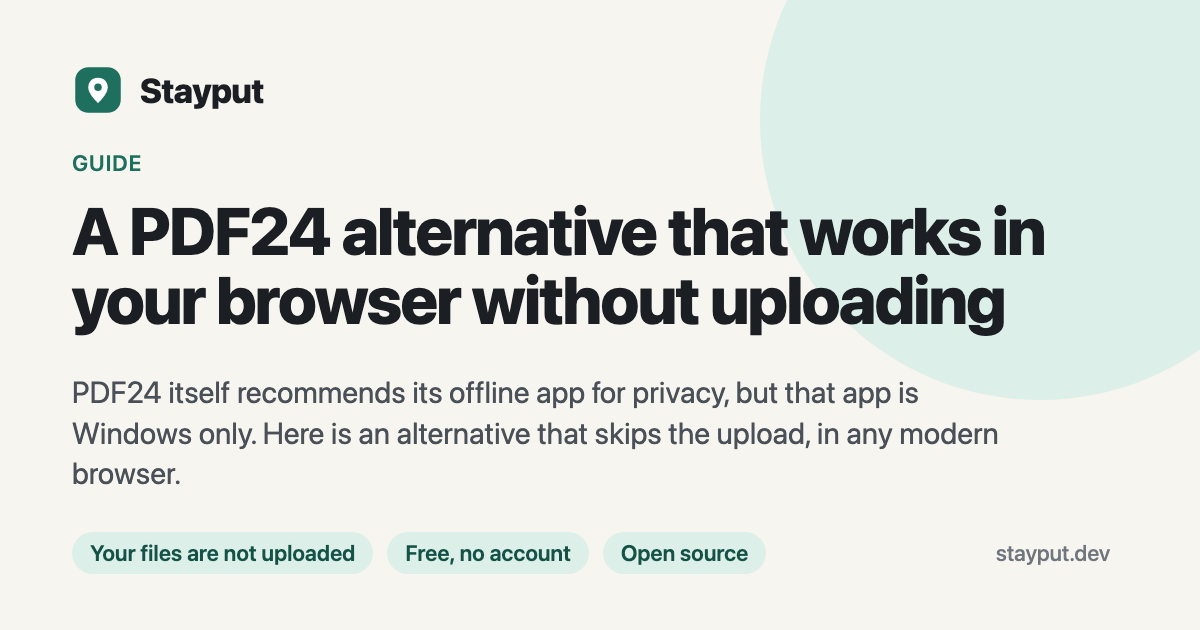
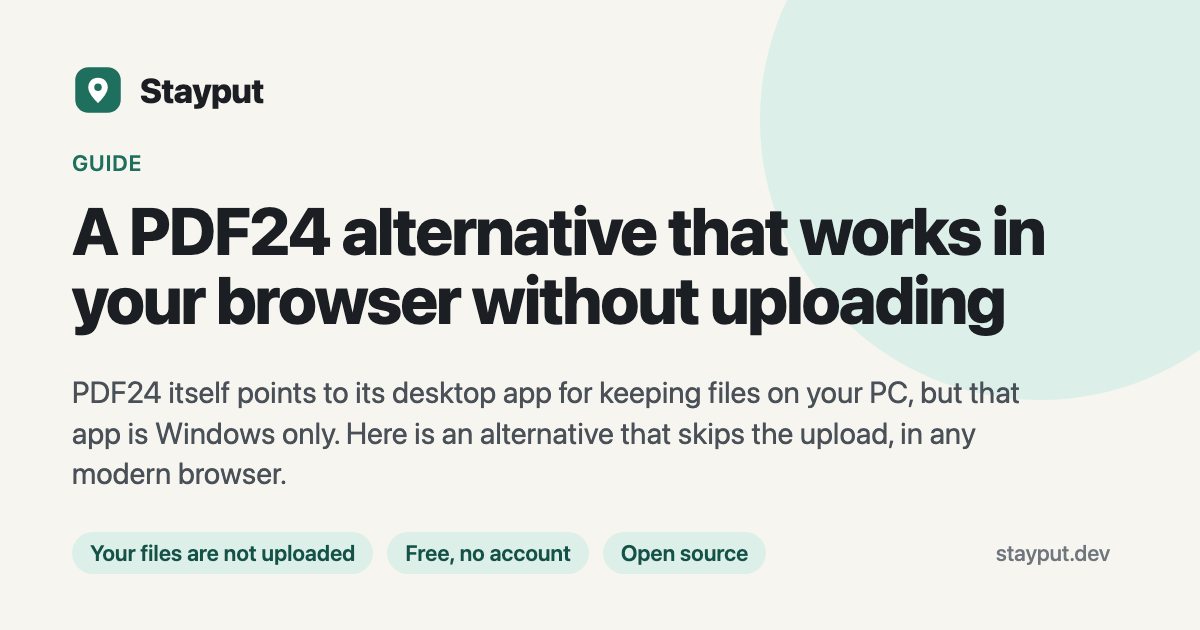
Soften undated competitor figures in guide descriptions and deks, date safe-guide FAQ answers

Changed region(s): [[0.0617, 0.6032, 0.8633, 0.7841]]

diff --git a/src/data/guides.ts b/src/data/guides.ts
@@ -723,7 +723,7 @@ export const guides: Guide[] = [
   {
     slug: 'is-cloudconvert-safe',
     title: 'Is CloudConvert Safe? What Happens to Your Files, and When to Keep Them Local',
-    description: 'CloudConvert is a reputable German service with ISO 27001 certification and 24-hour deletion. What that covers, and how to convert without uploading.',
+    description: 'As of October 2026, CloudConvert says it holds ISO 27001 certification and deletes files within 24 hours. What that covers, and how to convert without uploading.',
     heading: 'Is CloudConvert safe?',
     dek: 'For most files, yes: it is an established, certified service. The real question is whether a given file should leave your computer at all.',
     keywords: ['is cloudconvert safe', 'cloudconvert safe', 'cloudconvert privacy', 'is cloudconvert legit', 'cloudconvert security', 'cloudconvert alternative no upload'],
@@ -772,7 +772,7 @@ export const guides: Guide[] = [
     ],
     faq: [
       { q: 'Is CloudConvert legit?', a: 'Yes. It is run by Lunaweb GmbH in Munich, Germany, has been operating for years, publishes its security practices and holds ISO 27001 certification.' },
-      { q: 'How long does CloudConvert keep my files?', a: 'According to its privacy policy, until you delete them with the × button, and automatically after 24 hours at the latest.' },
+      { q: 'How long does CloudConvert keep my files?', a: 'As of October 2026, according to its privacy policy, until you delete them with the × button, and automatically after 24 hours at the latest.' },
       { q: 'Can CloudConvert staff see my files?', a: 'Its security page says conversions run in isolated containers and that staff cannot technically access your files; for support cases it asks you to send files manually.' },
       { q: 'Is there a way to convert without uploading anything?', a: 'Yes, for common formats. Tools that run in the browser, such as Stayput’s image, audio and video converters, process the file on your device. You can confirm it with airplane mode: they keep working offline after one visit.' },
     ],
@@ -780,7 +780,7 @@ export const guides: Guide[] = [
   {
     slug: 'is-freeconvert-safe',
     title: 'Is FreeConvert Safe? Its File Policy Explained, and a No-Upload Option',
-    description: 'FreeConvert stores uploads on AWS in Ireland and deletes them after 8 hours. What that means for private files, and how to convert common formats without uploading.',
+    description: 'As of October 2026, FreeConvert says it stores uploads on AWS in Ireland and deletes them after 8 hours. What that means for private files, and how to convert common formats without uploading.',
     heading: 'Is FreeConvert safe?',
     dek: 'FreeConvert is a legitimate service with a clear deletion policy. Whether it is safe for a particular file depends on whether that file should be uploaded anywhere.',
     keywords: ['is freeconvert safe', 'freeconvert safe', 'is freeconvert.com safe', 'freeconvert privacy', 'is freeconvert legit', 'freeconvert virus'],
@@ -828,7 +828,7 @@ export const guides: Guide[] = [
     ],
     faq: [
       { q: 'Is FreeConvert legit?', a: 'Yes. Its terms name TransMedia Inc. of Toronto, Canada as the operator, and its privacy policy gives a fixed deletion period.' },
-      { q: 'How long does FreeConvert keep my files?', a: 'Its privacy policy says uploaded files are deleted automatically after 8 hours, and you can delete them manually before then.' },
+      { q: 'How long does FreeConvert keep my files?', a: 'As of October 2026, its privacy policy says uploaded files are deleted automatically after 8 hours, and you can delete them manually before then.' },
       { q: 'Where are FreeConvert files stored?', a: 'On Amazon Web Services in Ireland, according to its privacy policy.' },
       { q: 'Can I convert a file without uploading it?', a: 'Yes, for common image, audio and video formats. Browser-based tools like Stayput process the file on your own device; after one visit, switch on airplane mode and they still work.' },
     ],
@@ -836,7 +836,7 @@ export const guides: Guide[] = [
   {
     slug: 'is-ilovepdf-safe',
     title: 'Is iLovePDF Safe? How It Handles Your PDFs, and How to Keep Them Local',
-    description: 'iLovePDF is a Europe-based, ISO 27001 certified PDF service that deletes files within two hours. What that covers, and how to edit PDFs without uploading.',
+    description: 'As of October 2026, iLovePDF says it is ISO 27001 certified and deletes files within two hours. What that covers, and how to edit PDFs without uploading.',
     heading: 'Is iLovePDF safe?',
     dek: 'iLovePDF is an established European service with good published practices. For confidential PDFs, the safer question is whether they need to be uploaded at all.',
     keywords: ['is ilovepdf safe', 'ilovepdf safe', 'is ilovepdf legit', 'ilovepdf privacy', 'ilovepdf security', 'ilovepdf alternative'],
@@ -884,7 +884,7 @@ export const guides: Guide[] = [
     ],
     faq: [
       { q: 'Is iLovePDF legit?', a: 'Yes. It is an established Europe-based service with ISO/IEC 27001 certification and GDPR compliance, according to its security page.' },
-      { q: 'How long does iLovePDF keep my files?', a: 'Its security policy says processed files are deleted automatically within two hours. Documents signed with its e-signature service are kept for up to five years.' },
+      { q: 'How long does iLovePDF keep my files?', a: 'As of October 2026, its security page says processed files are deleted automatically within two hours. Documents signed with its e-signature service are kept for up to five years.' },
       { q: 'Does iLovePDF have an offline version?', a: 'Yes. Per its desktop page, iLovePDF Desktop for Windows and Mac processes files offline. Browser tools like Stayput’s are another option that needs no installation.' },
       { q: 'How can I merge PDFs without uploading them?', a: 'Use a tool that runs in the browser. Stayput’s Merge PDF joins files inside the page; after one visit, it keeps working with the network switched off.' },
     ],
@@ -892,9 +892,9 @@ export const guides: Guide[] = [
   {
     slug: 'is-smallpdf-safe',
     title: 'Is Smallpdf Safe? File Retention, Storage and a No-Upload Option',
-    description: 'Smallpdf says it deletes files within an hour for signed-in users, unless they are saved to file storage. What that means for private files, and how to edit PDFs without uploading.',
+    description: 'As of October 2026, Smallpdf says it deletes files within an hour for signed-in users, unless they are saved to file storage. What that means for private files, and how to edit PDFs without uploading.',
     heading: 'Is Smallpdf safe?',
-    dek: 'Smallpdf is a reputable Swiss company with ISO 27001 certification. What changes the answer for you is which of its storage rules applies to your file.',
+    dek: 'Smallpdf is a reputable Swiss company with published retention rules. What changes the answer for you is which of its storage rules applies to your file.',
     keywords: ['is smallpdf safe', 'smallpdf safe', 'is smallpdf legit', 'smallpdf privacy', 'smallpdf security', 'smallpdf alternative'],
     updated: '2026-10-08',
     tools: ['compress-pdf', 'merge-pdf', 'pdf-to-word', 'sign-pdf'],
@@ -947,7 +947,7 @@ export const guides: Guide[] = [
   {
     slug: 'is-ezgif-safe',
     title: 'Is Ezgif Safe? What Happens to Your Uploads, and a No-Upload GIF Maker',
-    description: 'Ezgif is a long-running GIF editor that deletes uploads an hour after last use. What its policy covers, and how to make GIFs without uploading.',
+    description: 'As of October 2026, ezgif says it deletes uploads an hour after last use. What its policy covers, and how to make GIFs without uploading.',
     heading: 'Is ezgif safe?',
     dek: 'Ezgif is a legitimate, popular GIF tool with a short deletion window. The file you are about to drop in decides whether uploading it is fine.',
     keywords: ['is ezgif safe', 'ezgif safe', 'is ezgif legit', 'is ezgif.com safe', 'ezgif privacy', 'ezgif virus', 'ezgif alternative'],
@@ -1058,7 +1058,7 @@ export const guides: Guide[] = [
   {
     slug: 'is-convertio-safe',
     title: 'Is Convertio Safe? Its File Deletion Rules, and Converting Without Uploading',
-    description: 'Convertio is run from Cyprus, keeps files in the EU and deletes outputs within 24 hours. What that covers, and how to convert common formats locally.',
+    description: 'As of October 2026, Convertio says it keeps files in the EU and deletes outputs within 24 hours. What that covers, and how to convert common formats locally.',
     heading: 'Is Convertio safe?',
     dek: 'Convertio is a well-known converter with a published deletion policy. For private files, the safer choice is a converter that never receives them.',
     keywords: ['is convertio safe', 'convertio safe', 'is convertio legit', 'is convertio.co safe', 'convertio privacy', 'convertio virus'],
@@ -1107,15 +1107,15 @@ export const guides: Guide[] = [
     ],
     faq: [
       { q: 'Is Convertio legit?', a: 'Yes. It is operated by Convertio Limited, registered in Cyprus, and is one of the most used online converters.' },
-      { q: 'How long does Convertio keep my files?', a: 'Its privacy page says input files are removed right after conversion and converted files are deleted when you click ×, or after 24 hours automatically.' },
+      { q: 'How long does Convertio keep my files?', a: 'As of October 2026, its privacy page says input files are removed right after conversion and converted files are deleted when you click ×, or after 24 hours automatically.' },
       { q: 'Where does Convertio store files?', a: 'In the European Union, according to its privacy page.' },
       { q: 'How do I convert HEIC to JPG without uploading?', a: 'Use a converter that runs in the browser, such as Stayput’s HEIC to JPG. The photo is decoded and re-encoded on your device.' },
     ],
   },
   {
     slug: 'is-zamzar-safe',
-    title: 'Is Zamzar Safe? Seven-Day Storage, Email Links and a Local Alternative',
-    description: 'Zamzar is a UK converter that keeps free conversions for up to seven days. What that means for private files, and how to convert without uploading.',
+    title: 'Is Zamzar Safe? How Long It Keeps Files, Email Links and a Local Alternative',
+    description: 'As of October 2026, Zamzar says it stores files for no longer than seven days. What that means for private files, and how to convert without uploading.',
     heading: 'Is Zamzar safe?',
     dek: 'Zamzar is one of the oldest online converters. Its storage window is longer than most, which is the detail worth knowing.',
     keywords: ['is zamzar safe', 'zamzar safe', 'is zamzar legit', 'is zamzar.com safe', 'zamzar privacy', 'zamzar virus'],
@@ -1164,7 +1164,7 @@ export const guides: Guide[] = [
     ],
     faq: [
       { q: 'Is Zamzar legit?', a: 'Yes. It is operated by Zamzar Limited, a company registered in England, and has run online conversions since 2006.' },
-      { q: 'How long does Zamzar keep my files?', a: 'Its privacy policy says free conversions are stored for no longer than 7 days. Account files are removed 35 days after the account is deactivated.' },
+      { q: 'How long does Zamzar keep my files?', a: 'As of October 2026, its privacy policy says free conversions are stored for no longer than 7 days. Account files are removed 35 days after the account is deactivated.' },
       { q: 'Does Zamzar use analytics?', a: 'As of October 2026, its privacy policy says it uses Google Analytics, with cookies that store a client and session id.' },
       { q: 'Can I convert files without uploading them?', a: 'Yes, for common image, PDF and audio formats. Browser-based tools like Stayput’s process files on your device and work offline once loaded.' },
     ],
@@ -2885,7 +2885,7 @@ export const guides: Guide[] = [
   {
     slug: 'convertio-alternative',
     title: 'A Free Convertio Alternative With No File Size Cap',
-    description: 'Convertio\'s free tier allows files up to 1 GB and 10 conversion credits per 24 hours. Here is what that looks like, and a browser-based alternative with no daily credits for common formats.',
+    description: 'Convertio\'s free tier limits file size and the number of conversion credits per day. Here is what that looks like, and a browser-based alternative with no daily credits for common formats.',
     heading: 'A free Convertio alternative with no file size cap',
     dek: 'Convertio\'s free plan caps both file size and how many conversions you get per day. Here is an alternative with no such ceiling.',
     keywords: ['convertio alternative', 'free convertio alternative', 'convertio alternative no limit', 'convertio free plan limit', 'convertio without upload'],
@@ -2928,9 +2928,9 @@ export const guides: Guide[] = [
   {
     slug: 'zamzar-alternative',
     title: 'A Free Zamzar Alternative With No Daily Limit',
-    description: 'Zamzar\'s free service allows two conversions in any 24-hour period, with files up to 50MB. Here is what that looks like, and a browser-based alternative with neither restriction.',
+    description: 'Zamzar\'s free service limits both the number of conversions per day and the file size. Here is what that looks like, and a browser-based alternative with neither restriction.',
     heading: 'A free Zamzar alternative with no daily limit',
-    dek: 'Zamzar\'s free service allows two files per 24 hours, up to 50MB each. Here is an alternative with no such cap.',
+    dek: 'Zamzar\'s free service limits how many files you can convert and how big each can be. Here is an alternative with no such cap.',
     keywords: ['zamzar alternative', 'free zamzar alternative', 'zamzar alternative no limit', 'zamzar free plan limit', 'zamzar without upload'],
     updated: '2026-10-08',
     tools: ['convert-image', 'compress-image', 'video-to-mp3', 'pdf-to-image'],
@@ -2971,9 +2971,9 @@ export const guides: Guide[] = [
   {
     slug: 'freeconvert-alternative',
     title: 'A Free FreeConvert Alternative With No Processing Time Cap',
-    description: 'FreeConvert\'s free plan gives 20 conversion minutes a day and caps processing at 5 minutes per file. Here is what that looks like, and a browser-based alternative with no such cap.',
+    description: 'FreeConvert\'s free plan limits conversion minutes per day and processing time per file. Here is what that looks like, and a browser-based alternative with no such cap.',
     heading: 'A free FreeConvert alternative with no processing time cap',
-    dek: 'FreeConvert\'s free plan limits each file to 5 minutes of processing time and the day to 20 conversion minutes. Here is an alternative with nothing to time out.',
+    dek: 'FreeConvert\'s free plan limits the processing time for each file and for the day. Here is an alternative with nothing to time out.',
     keywords: ['freeconvert alternative', 'free freeconvert alternative', 'freeconvert alternative no limit', 'freeconvert free plan limit', 'freeconvert without upload'],
     updated: '2026-10-08',
     tools: ['convert-image', 'compress-image', 'video-to-gif', 'video-to-mp3'],
@@ -3016,7 +3016,7 @@ export const guides: Guide[] = [
     title: 'A PDF24 Alternative That Works in Your Browser Without Uploading',
     description: 'PDF24 says its free online tools have no artificial limits, but they process your PDF on its servers; its desktop app, PDF24 Creator, is Windows only. Here is an alternative that works anywhere without uploading your files.',
     heading: 'A PDF24 alternative that works in your browser without uploading',
-    dek: 'PDF24 itself recommends its offline app for privacy, but that app is Windows only. Here is an alternative that skips the upload, in any modern browser.',
+    dek: 'PDF24 itself points to its desktop app for keeping files on your PC, but that app is Windows only. Here is an alternative that skips the upload, in any modern browser.',
     keywords: ['pdf24 alternative', 'pdf24 alternative mac', 'pdf24 without upload', 'pdf24 alternative no install', 'pdf24 creator alternative'],
     updated: '2026-10-08',
     tools: ['merge-pdf', 'compress-pdf', 'split-pdf', 'unlock-pdf', 'rotate-pdf', 'reorder-pdf'],
@@ -3057,7 +3057,7 @@ export const guides: Guide[] = [
   {
     slug: 'ezgif-alternative',
     title: 'A Free Ezgif Alternative With No File Size Cap',
-    description: 'Ezgif\'s video tools list a 200MB maximum file size and process your upload on its servers. Here is a browser-based GIF alternative that is limited only by your device’s memory, with no upload.',
+    description: 'Ezgif\'s video tools limit the size of the file you upload and process it on its servers. Here is a browser-based GIF alternative that is limited only by your device’s memory, with no upload.',
     heading: 'A free ezgif alternative with no file size cap',
     dek: 'Ezgif caps how big a file you can upload. Here is an alternative where your video is never uploaded.',
     keywords: ['ezgif alternative', 'free ezgif alternative', 'ezgif alternative no ads', 'ezgif file size limit', 'gif maker without upload'],
@@ -3466,7 +3466,7 @@ export const guides: Guide[] = [
   {
     slug: 'otter-ai-alternative',
     title: 'A Free Otter.ai Alternative With No Monthly Minute Cap',
-    description: 'Otter.ai\'s free plan lists 300 transcription minutes a month, 30 minutes per conversation and 3 lifetime file imports; paid plans raise those limits. Here is a browser-based alternative with none of them.',
+    description: 'Otter.ai\'s free plan limits monthly transcription minutes, the length of each conversation and the number of file imports; paid plans raise those limits. Here is a browser-based alternative with none of them.',
     heading: 'A free Otter.ai alternative with no monthly minute cap',
     dek: 'Otter.ai\'s free tier meters your minutes each month and caps how long a single recording can run. Here is what that looks like, and an alternative with nothing to meter.',
     keywords: ['otter.ai alternative', 'otter ai alternative free', 'free alternative to otter ai', 'otter ai alternative no limit', 'transcription app without subscription'],
@@ -3508,7 +3508,7 @@ export const guides: Guide[] = [
   {
     slug: 'camscanner-alternative',
     title: 'A Free CamScanner Alternative With No Watermark',
-    description: 'CamScanner\'s free account has limits such as 1 GB of cloud storage and 3 free uses of advanced text extraction, with a Premium plan above it. Here is a browser-based scanning alternative with no watermark, no account and no upload.',
+    description: 'CamScanner\'s free account has storage and text-extraction limits, with a Premium plan above it. Here is a browser-based scanning alternative with no watermark, no account and no upload.',
     heading: 'A free CamScanner alternative with no watermark',
     dek: 'CamScanner\'s free account has storage and feature limits, with a Premium plan above it. Here is a scanning alternative with no watermark and no tier to pay for.',
     keywords: ['camscanner alternative', 'camscanner alternative free', 'camscanner alternative no watermark', 'free document scanner no watermark', 'scan document without app'],

diff --git a/src/data/engine.ts b/src/data/engine.ts
@@ -113,7 +113,7 @@ export const engines: Record<string, Engine> = {
   },
   'compress-png': {
     how: 'UPNG.js (MIT), the PNG codec from the Photopea editor, reads the PNG byte by byte in your tab, so the exact pixels are used, not a canvas copy. For lossy compression it reduces the image to a palette of up to 256 colours chosen for that image and writes an 8-bit PNG with full transparency; lossless mode keeps every pixel and picks the tightest colour type and filters. The result is compressed with pako’s deflate (MIT) and saved from memory.',
-    versus: 'TinyPNG and similar sites upload every PNG to their server, limit free use to a handful of files at 5 MB each, and keep the files for a while. Screenshots, design exports and logos are often confidential. Here they never leave your device, and there is no daily limit or file cap.',
+    versus: 'Compressors that process your PNGs on their server usually limit free use. Screenshots, design exports and logos are often confidential. Here your files are not uploaded, and there is no daily limit or file cap.',
   },
   'mute-video': {
     how: 'Mediabunny (MPL-2.0), a media toolkit written in TypeScript, reads the MP4, MOV, WebM or MKV container in your tab and copies every video packet into a new file of the same type, leaving the sound track out. Nothing is decoded or re-encoded, so the picture is bit-for-bit the same and the job takes about as long as reading the file.',
